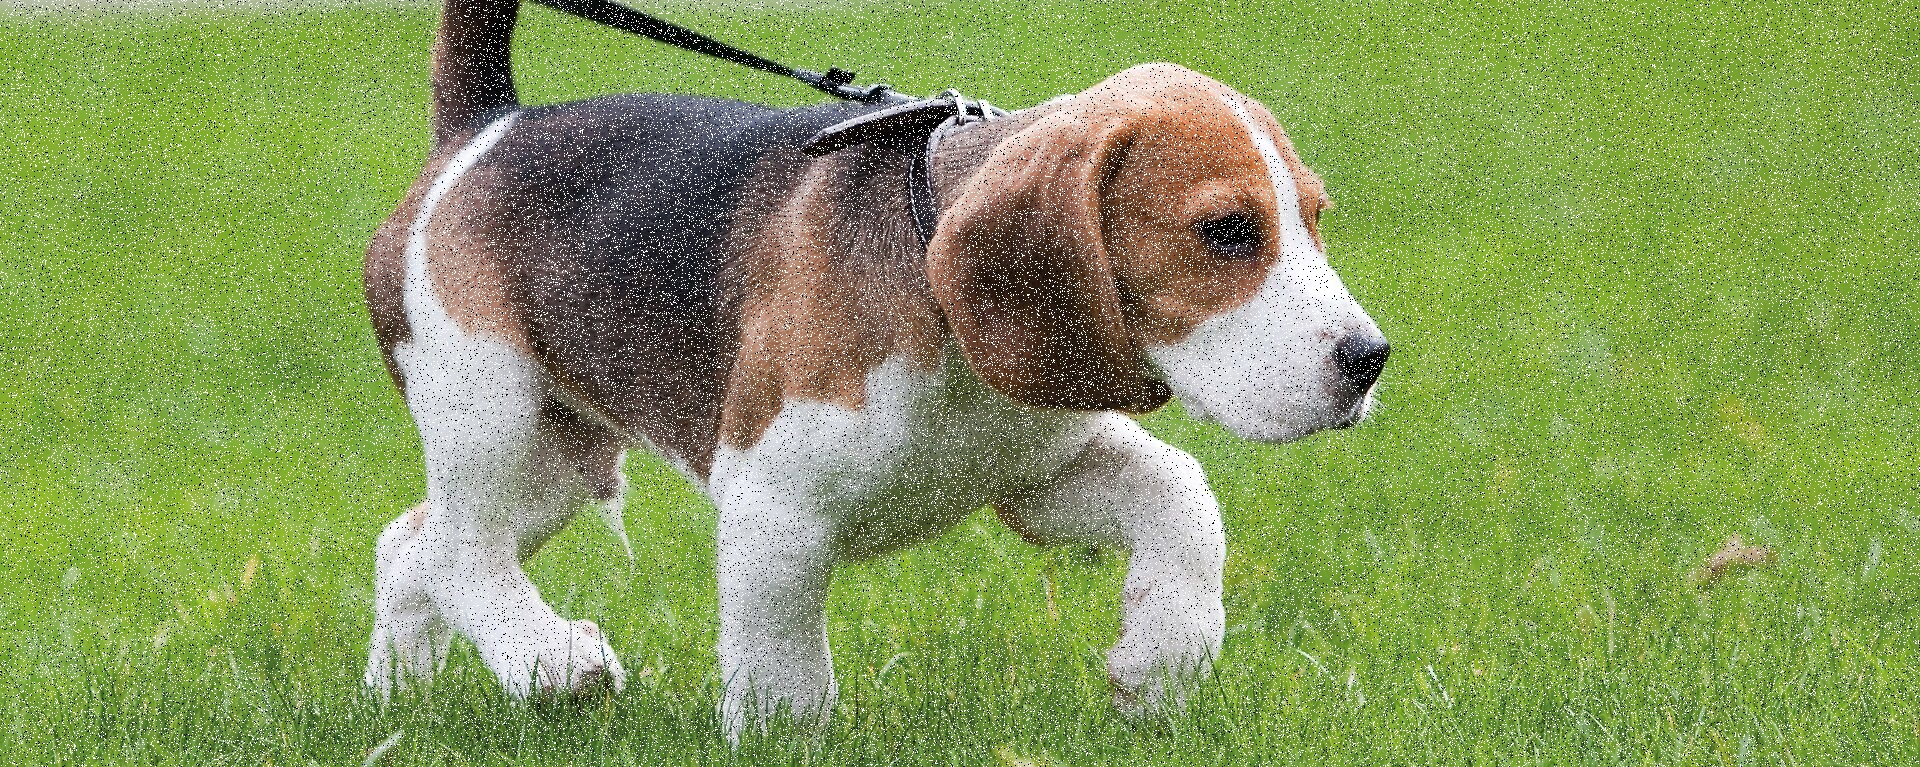
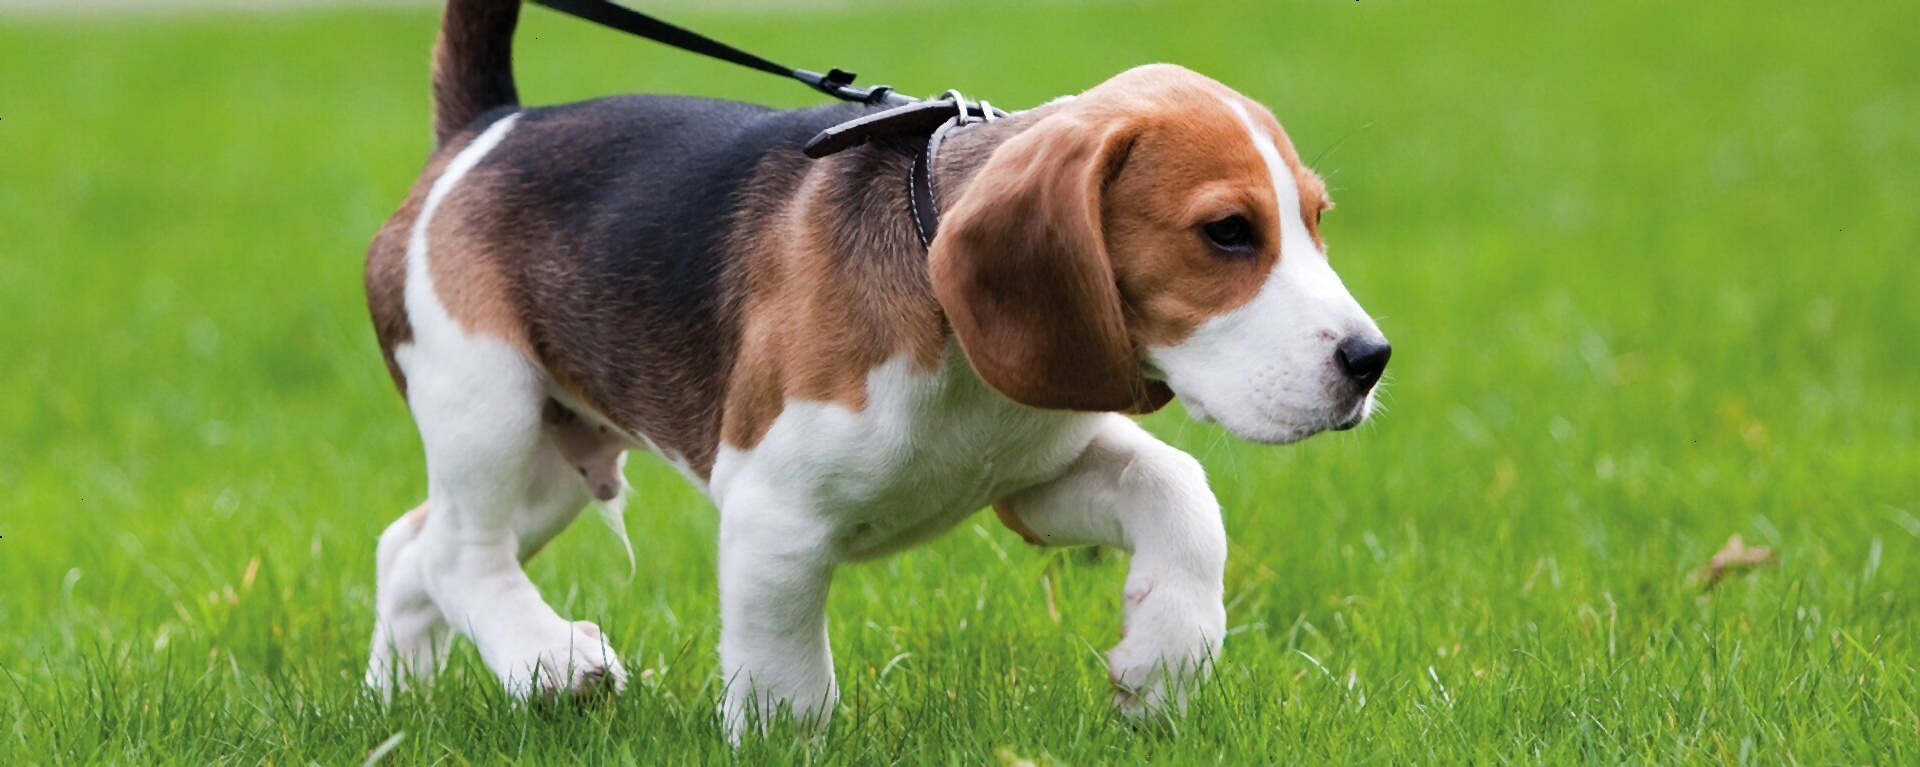
The methods 'medianFilterSingleChannelImages' and 'medianFilterThreeChannelsImages' were added

Changed region(s): [[0.0, 0.0, 1.0, 1.0]]

diff --git a/src/DIP.py b/src/DIP.py
@@ -39,7 +39,7 @@ def meanFilterSingleChannelImages(img, kernel_size: int = 3, mode: str = 'edge')
     tmp = np.pad(array=img.astype('float64'), pad_width=2*gap, mode=mode) # 2 * gap to avoid of going beyond borders of image
     integral = integralMatrix(mrx=tmp)
     
-    rows1, cols1 = np.ogrid[gap:h+gap, gap:w+gap]
+    rows1, cols1 = np.ogrid[gap:h+gap, gap:w+gap] # The final image size will be not changed
     rows2, cols2 = rows1+kernel_size, cols1+kernel_size
     S = integral[rows1, cols1] + integral[rows2, cols2] - integral[rows1, cols2] - integral[rows2, cols1]
     res = S / (kernel_size * kernel_size)
@@ -69,7 +69,22 @@ def addSaltAndPepperNoise(img, saltProb: float, pepperProb: float):
         res[pepperMask] = 0
     return res
 
+def medianFilterSingleChannelImages(img, kernel_size: int = 3, mode: str = 'edge'):
+    res = np.empty(shape=img.shape, dtype=img.dtype)
+    gap = kernel_size // 2
+    h, w = img.shape
+    tmp = np.pad(array=img.astype('float64'), pad_width=2*gap, mode=mode) # 2 * gap to avoid of going beyond borders of image
+    space = np.lib.stride_tricks.sliding_window_view(tmp, (kernel_size, kernel_size))
 
+    res = np.median(space, axis=(2, 3))
+    return np.clip(res[:h, :w], 0, 255).astype('uint8') # The final image size will be not changed
+
+def medianFilterThreeChannelsImages(img, kernel_size: int = 3, mode: str = 'edge'):
+    h, w, c = img.shape
+    res = np.empty(shape=(h, w, c), dtype='uint8') # Using np.empty is better using np.zeroes because it doesn't use full memory
+    for i in range(c):
+        res[:, :, i] = medianFilterSingleChannelImages(img=img[:, :, i], kernel_size=kernel_size, mode=mode)
+    return res
 
 
 

diff --git a/src/program.py b/src/program.py
@@ -5,8 +5,10 @@ import DIP
 
 def main() -> None:
     img = cv2.imread('imgs/income.jpg')
-    res = DIP.addSaltAndPepperNoise(img=img, saltProb=0.1, pepperProb=0.03)
+    noise = DIP.addSaltAndPepperNoise(img=img, saltProb=0.01, pepperProb=0.03)
+    res = DIP.medianFilterThreeChannelsImages(noise, kernel_size=3)
     cv2.imwrite('imgs/outcome.jpg', res)   
+    cv2.imwrite('imgs/noise.jpg', noise)  
     print('Hello, world!')
 
     
